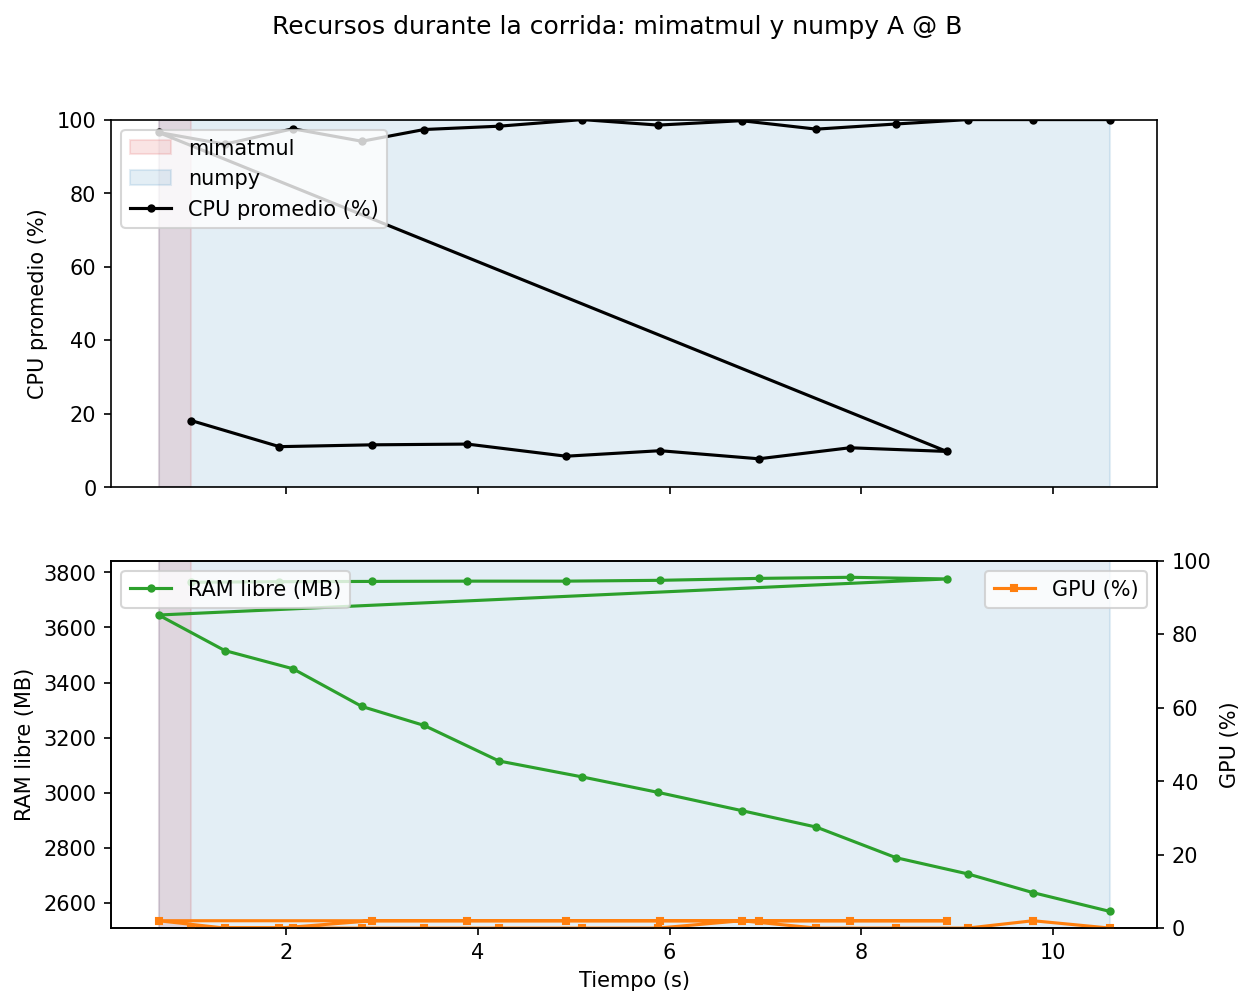
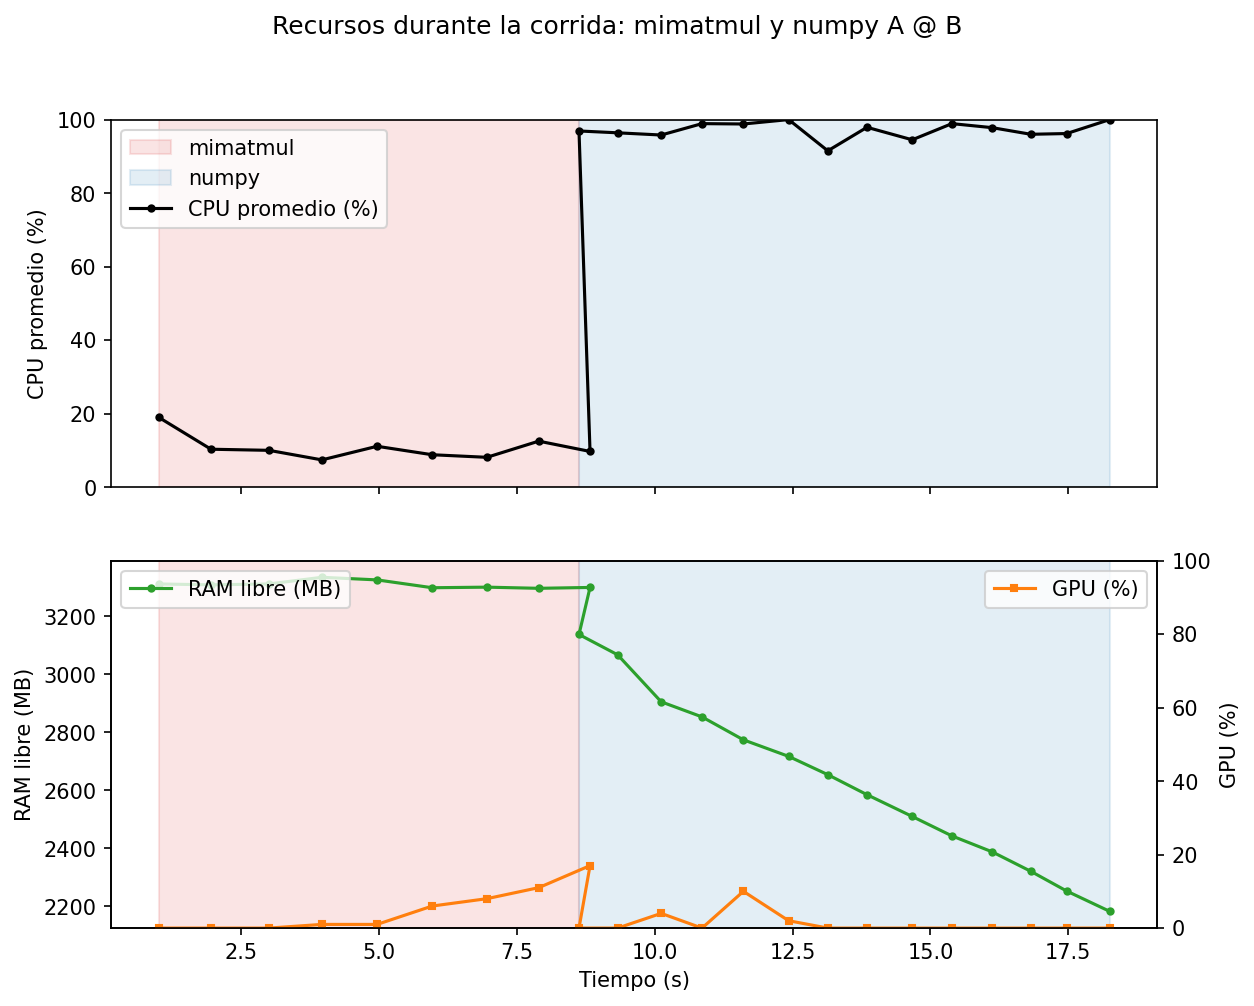
Correccion: tiempo acumulativo entre fases en monitor de recursos (las fases ya no se superponen)

diff --git a/src/monitor_recursos.py b/src/monitor_recursos.py
@@ -46,8 +46,12 @@ def nvidia_gpu():
         return None
 
 
-def correr_fase(descripcion, carga, segundos):
-    """Corre `carga` en un hilo y muestrea CPU, RAM y GPU hasta que pase `segundos`."""
+def correr_fase(descripcion, carga, segundos, offset=0.0):
+    """Corre `carga` en un hilo y muestrea CPU, RAM y GPU hasta que pase `segundos`.
+
+    `offset` suma un desplazamiento de tiempo para que las fases no se superpongan
+    en el eje horizontal del grafico.
+    """
     hilo = threading.Thread(target=carga, daemon=True)
     hilo.start()
     inicio = time.time()
@@ -56,7 +60,7 @@ def correr_fase(descripcion, carga, segundos):
         por_nucleo = psutil.cpu_percent(interval=INTERVALO, percpu=True)
         gpu = nvidia_gpu()
         filas.append({
-            "tiempo_s": round(time.time() - inicio, 2),
+            "tiempo_s": round(offset + (time.time() - inicio), 2),
             "fase": descripcion,
             "cpu_promedio": round(sum(por_nucleo) / len(por_nucleo), 1),
             "cpu_por_nucleo": [round(p) for p in por_nucleo],
@@ -129,8 +133,10 @@ def main():
     psutil.cpu_percent(interval=0.3)
 
     filas = []
-    filas += correr_fase("mimatmul", lambda: [mimatmul(A, B) for _ in range(10)], DURACION_MIMATMUL)
-    filas += correr_fase("numpy", lambda: [A2 @ B2 for _ in range(40)], DURACION_NUMPY)
+    offset = 0.0
+    filas += correr_fase("mimatmul", lambda: [mimatmul(A, B) for _ in range(10)], DURACION_MIMATMUL, offset)
+    offset += DURACION_MIMATMUL
+    filas += correr_fase("numpy", lambda: [A2 @ B2 for _ in range(40)], DURACION_NUMPY, offset)
 
     guardar_csv(filas)
     generar_grafico(filas)
